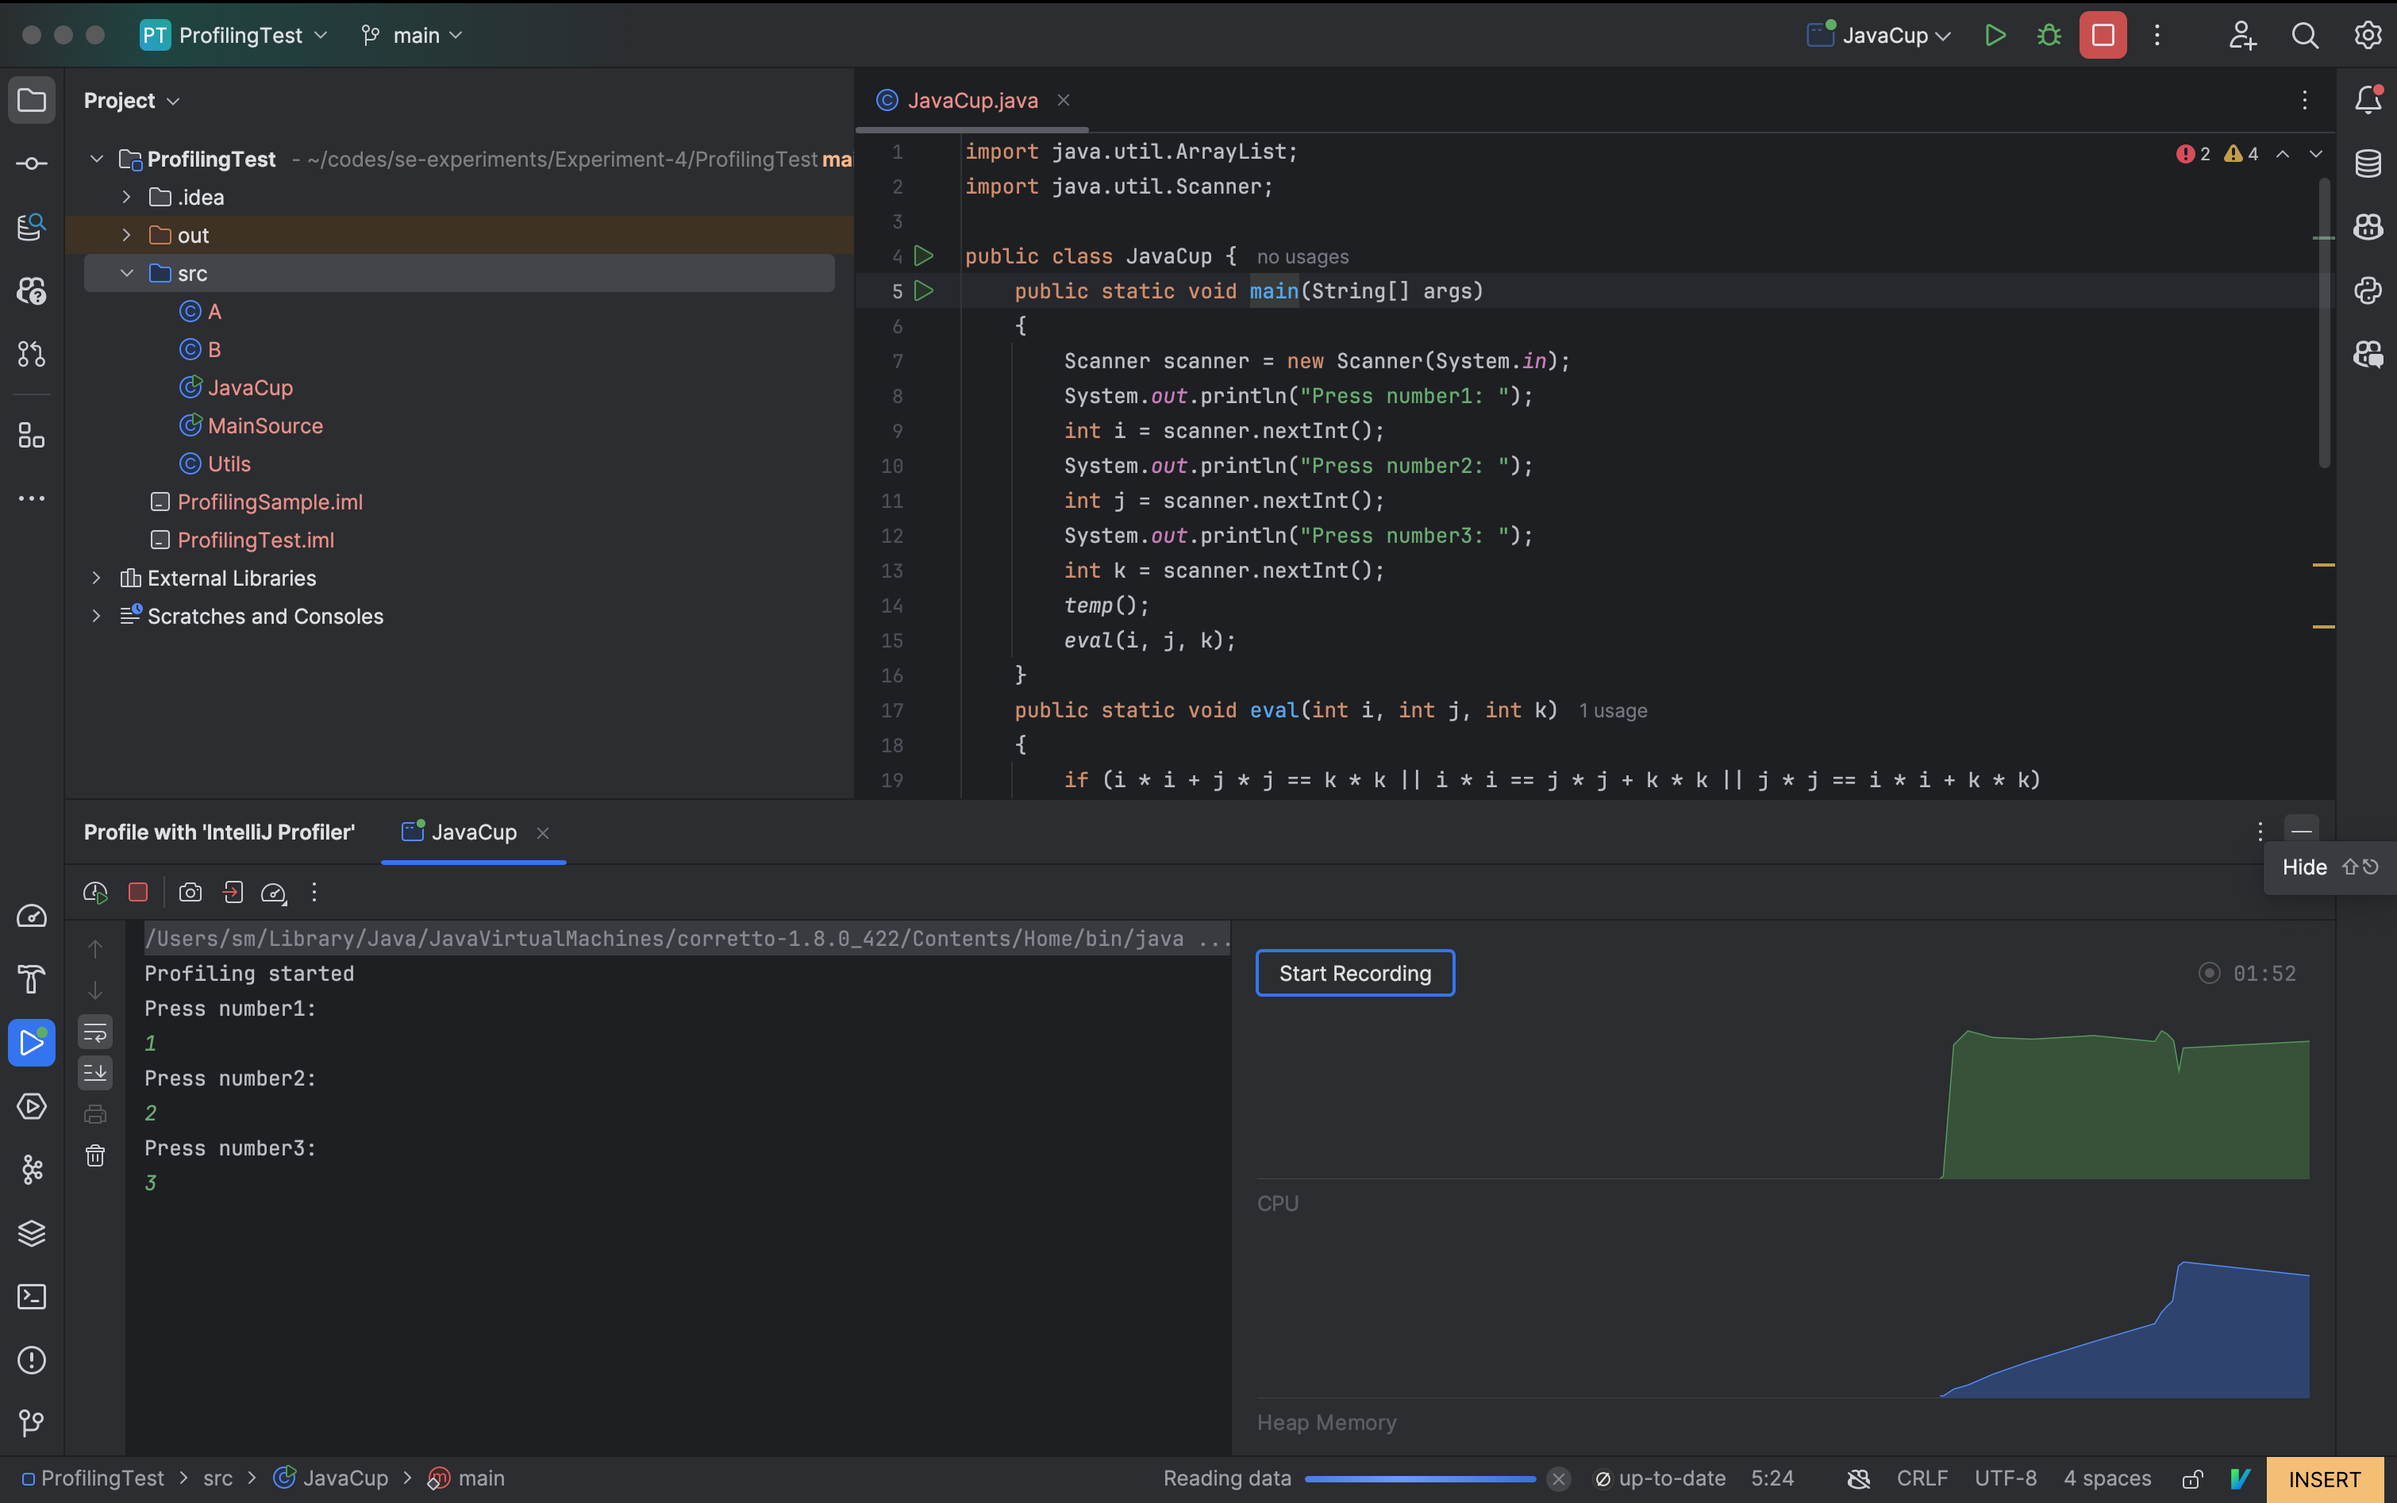
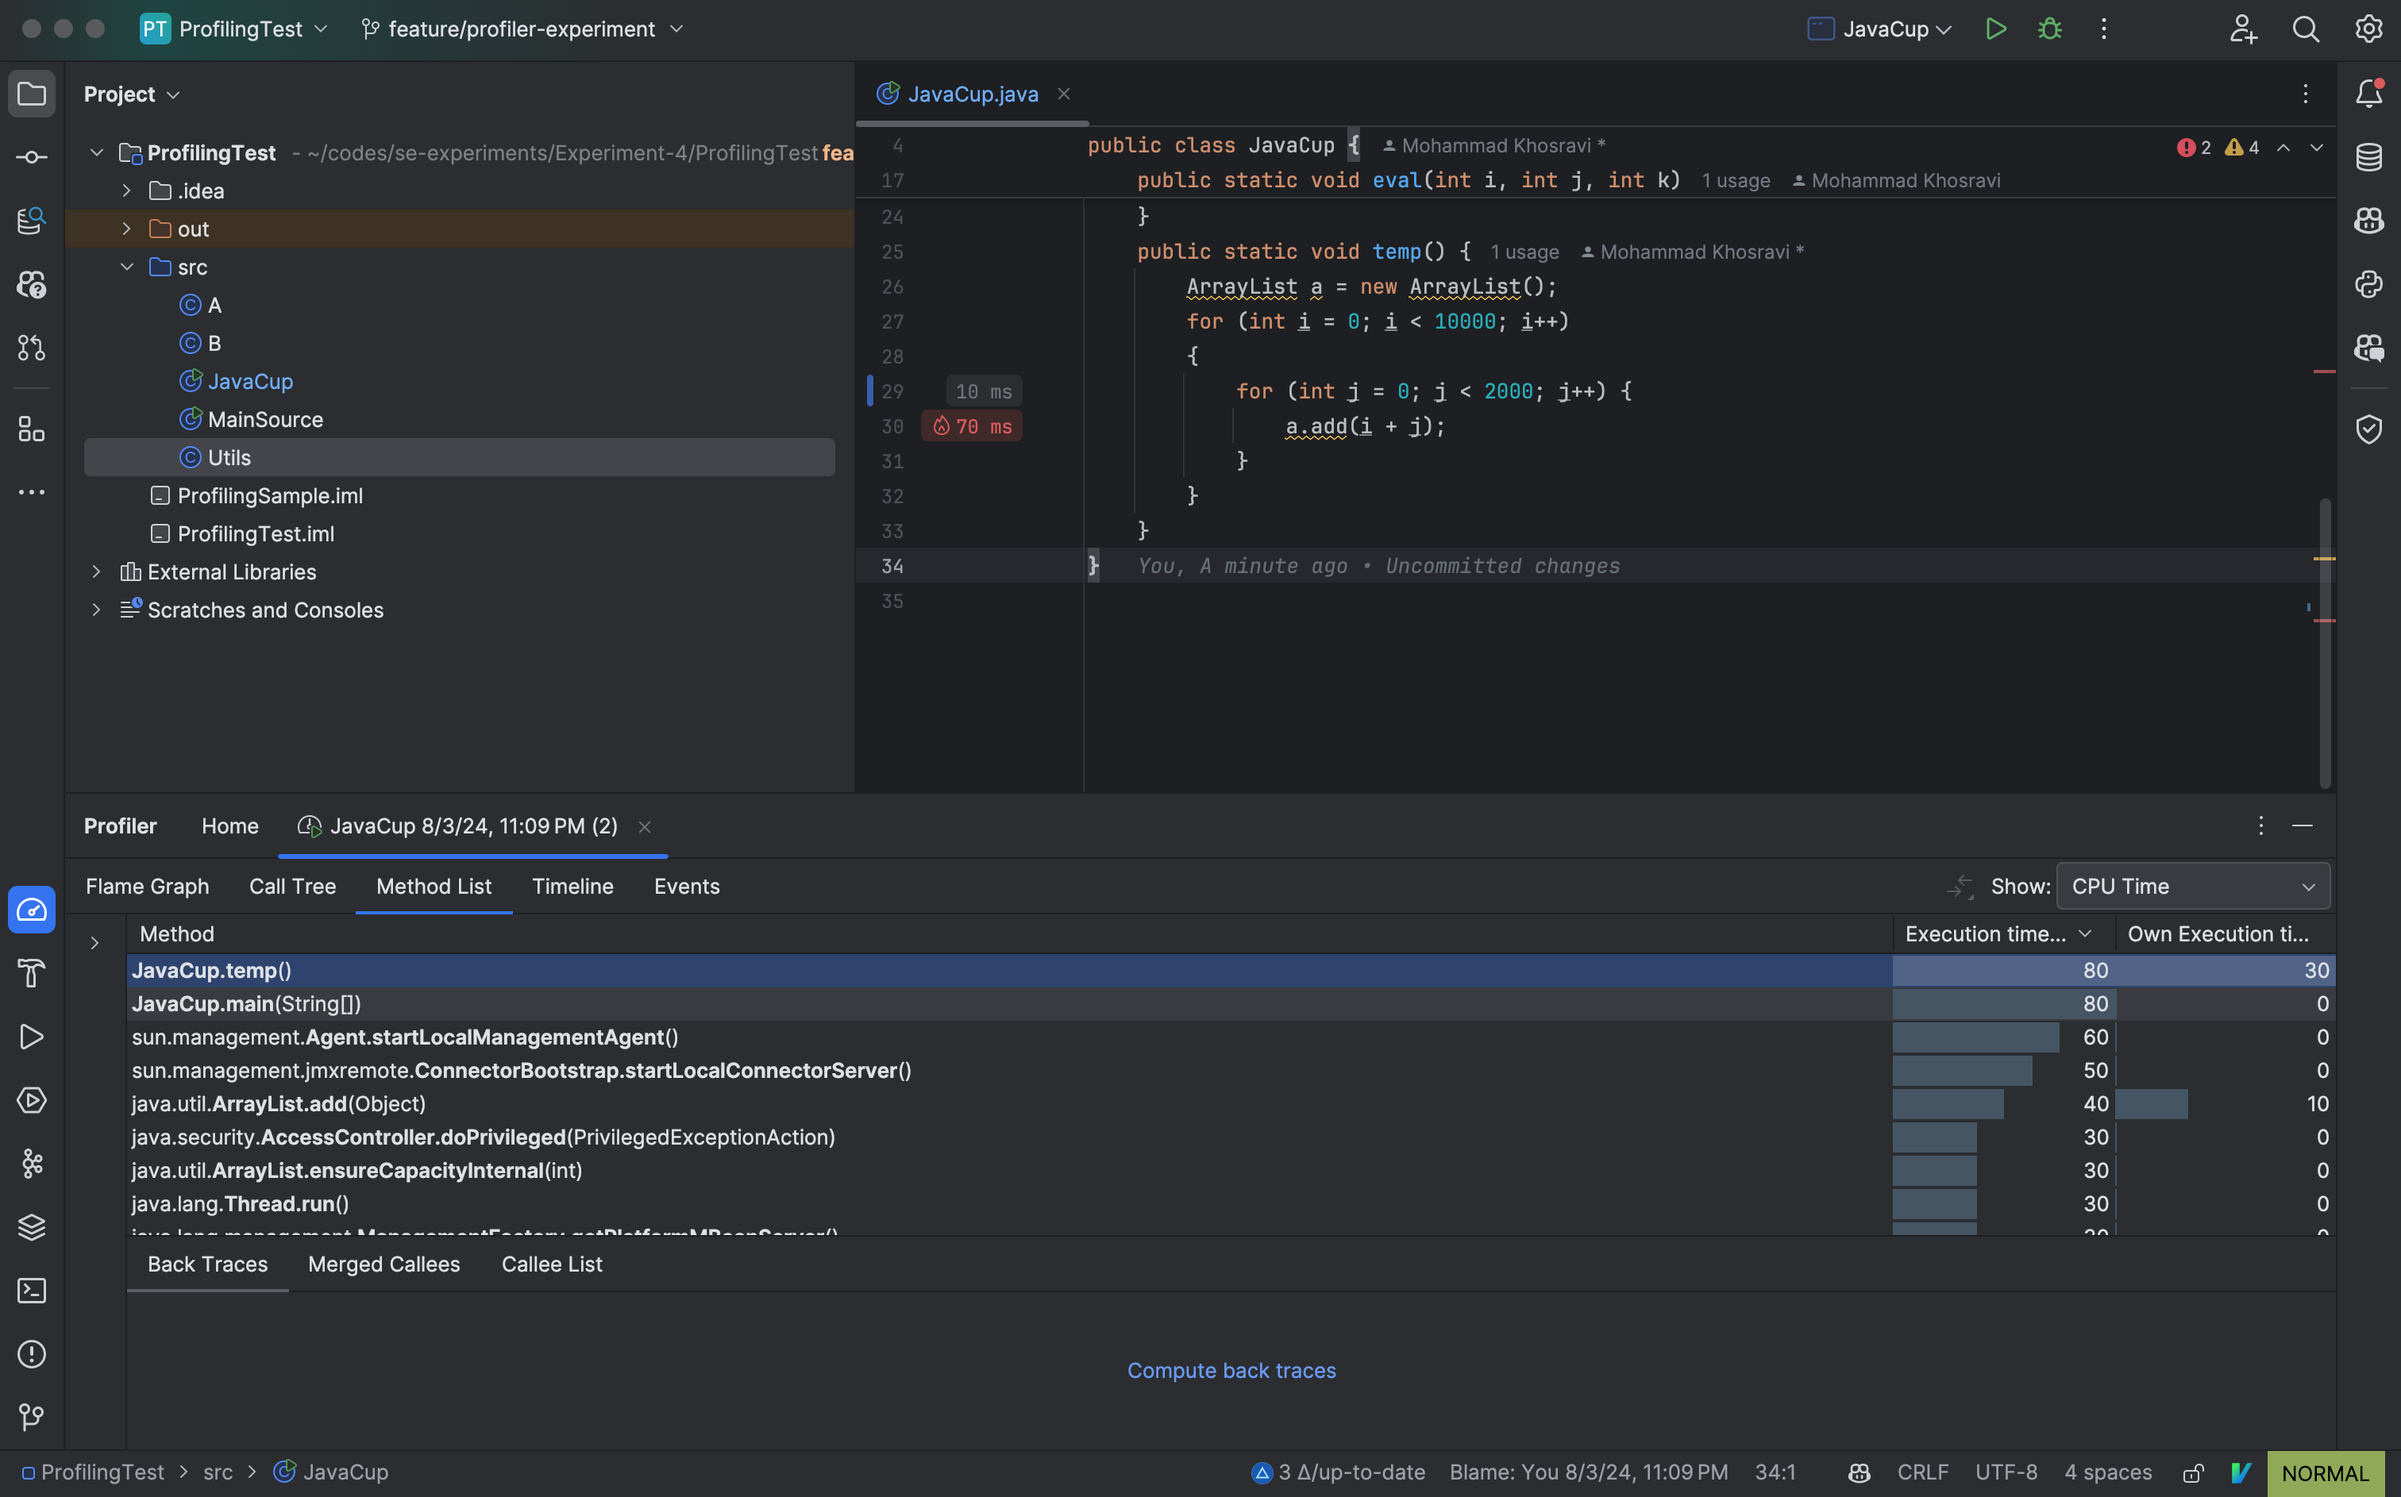
add after change results

diff --git a/ProfilingTest/src/JavaCup.java b/ProfilingTest/src/JavaCup.java
@@ -23,10 +23,13 @@ public class JavaCup {
         else { System.out.println("NO"); }
     }
     public static void temp() {
-        ArrayList a = new ArrayList();
-        for (int i = 0; i < 10000; i++)
+        int size1 = 10000;
+        int size2 = 2000;
+        ArrayList<Integer> a = new ArrayList<>();
+        a.ensureCapacity(size1 * size2);
+        for (int i = 0; i < size1; i++)
         {
-            for (int j = 0; j < 20000; j++) {
+            for (int j = 0; j < size2; j++) {
                 a.add(i + j);
             }
         }

diff --git a/README.md b/README.md
@@ -8,7 +8,17 @@
 بر روی کلاس JavaCup
 انجام میدهیم. نتایج اولیه را در عکسهای زیر مشاهده میکنیم. 
 
-[اسکرینشات از عملیات profiling](assets/1.png)
+![تصویر از زمان اجرا](assets/1.png)
 
-[نتایج عملیات طبقهبندی شده بر اساس توابع](assets/2.png)
+![تصویر از حافظه مصرف شده](assets/2.png)
 
+توجه کنید که به علت بزرگ بودن اعداد مربوط به تعداد اجرای حلقهها، مجبور شدیم که یک صفر از اندازه حلقهی درونی کم کنیم تا در زمان معقولی بتوان آن را اجرا کرد!
+
+همانطور که مشاهده میکنیم، تابع temp 
+بیشترین میزان مصرف منابع را دارد. حال به گونهای آن را تغییر میدهیم که مصرف منابع بهتر شود.
+تغییر ما از جنس گرفتن فضای حافظه در همان اول شروع اجرای تابع است تا overhead زیاد کردن فضای حافظه را از بین ببریم.
+
+![تصویر از زمان اجرا](assets/3.png)
+![تصویر از حافظه مصرف شده](assets/4.png)
+
+که همانطور که مشاهده میکنید، هم زمان اجرا کاهش یافته است و هم مقدار حافظه مصرفی.
